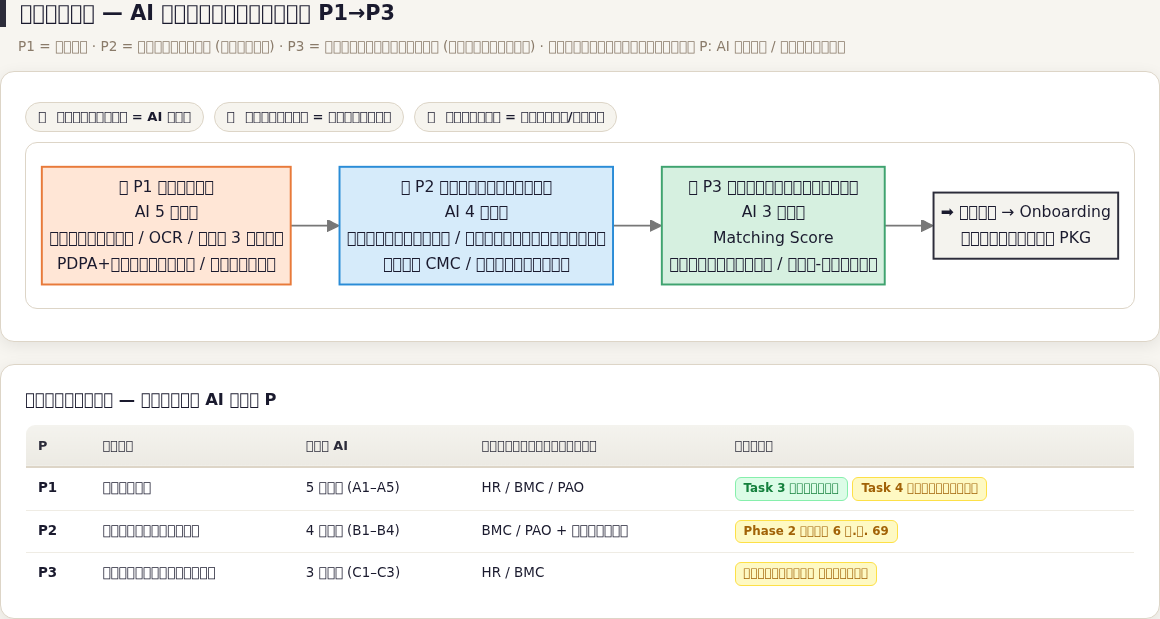
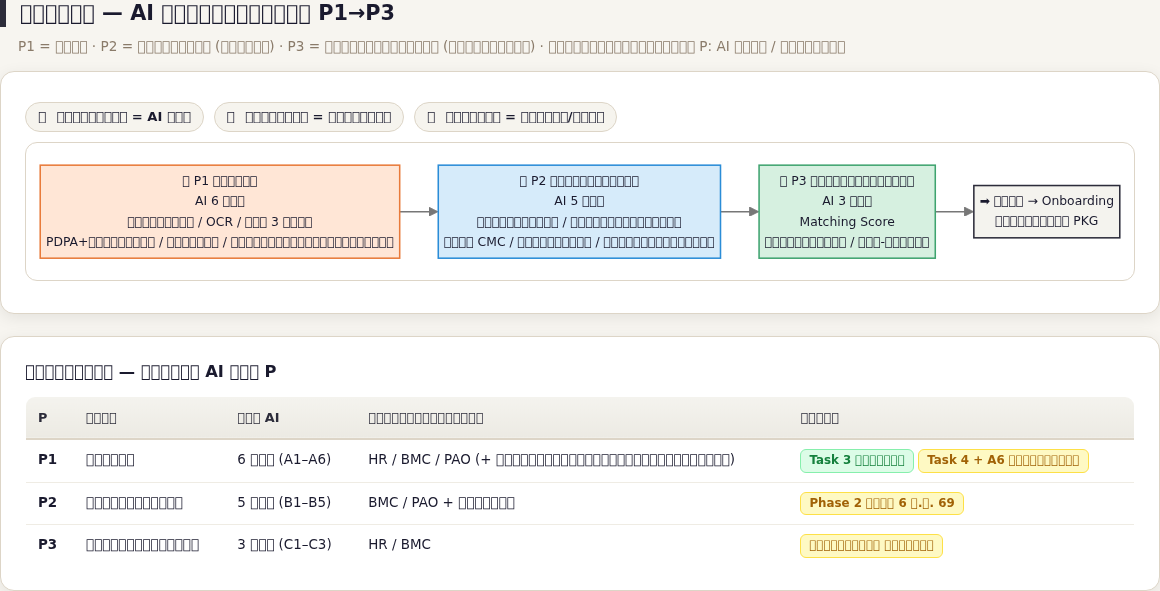
feat(flow): PM-PP7-002 v1.1 — เพิ่ม A6 แนะนำตำแหน่งทางเลือก (P1) + B5 แนะนำบทบาทใหม่ (P2) ตามข้อกำหนดพี่ปกรณ์ 3 ต.ค. 69 + PNG อัปเดต

diff --git a/docs/PM-PP7-AI-POINTS.html b/docs/PM-PP7-AI-POINTS.html
@@ -86,8 +86,8 @@ tbody tr:last-child td{border-bottom:0;}
     </div>
     <div class="mermaid">
 flowchart LR
-    P1["🟠 P1 แสวงหา<br/>AI 5 จุด<br/>ตรวจฟอร์ม / OCR / แปล 3 ภาษา<br/>PDPA+แจ้งเตือน / คัดกรอง"]
-    P2["🔵 P2 หยั่งประเมิน<br/>AI 4 จุด<br/>สร้างคำถาม / วิเคราะห์บันทึก<br/>สรุป CMC / ร่างรายงาน"]
+    P1["🟠 P1 แสวงหา<br/>AI 6 จุด<br/>ตรวจฟอร์ม / OCR / แปล 3 ภาษา<br/>PDPA+แจ้งเตือน / คัดกรอง / แนะนำตำแหน่งทางเลือก"]
+    P2["🔵 P2 หยั่งประเมิน<br/>AI 5 จุด<br/>สร้างคำถาม / วิเคราะห์บันทึก<br/>สรุป CMC / ร่างรายงาน / แนะนำบทบาทใหม่"]
     P3["🟢 P3 จับคู่คนกับงาน<br/>AI 3 จุด<br/>Matching Score<br/>ตรวจประวัติ / ปิด-ส่งต่อ"]
     P1 --> P2 --> P3
     P3 --> OUT["➡ ผ่าน → Onboarding<br/>เป็นสมาชิก PKG"]
@@ -102,8 +102,8 @@ flowchart LR
     <table>
       <thead><tr><th>P</th><th>ชื่อ</th><th>จุด AI</th><th>คนตัดสินสุดท้าย</th><th>สถานะ</th></tr></thead>
       <tbody>
-        <tr><td><b>P1</b></td><td>แสวงหา</td><td>5 จุด (A1–A5)</td><td>HR / BMC / PAO</td><td><span class="tag tag-done">Task 3 ทำแล้ว</span> <span class="tag tag-wait">Task 4 ออกแบบแล้ว</span></td></tr>
-        <tr><td><b>P2</b></td><td>หยั่งประเมิน</td><td>4 จุด (B1–B4)</td><td>BMC / PAO + กรรมการ</td><td><span class="tag tag-wait">Phase 2 หลัง 6 พ.ย. 69</span></td></tr>
+        <tr><td><b>P1</b></td><td>แสวงหา</td><td>6 จุด (A1–A6)</td><td>HR / BMC / PAO (+ ผู้สมัครเลือกตำแหน่งทางเลือก)</td><td><span class="tag tag-done">Task 3 ทำแล้ว</span> <span class="tag tag-wait">Task 4 + A6 ออกแบบแล้ว</span></td></tr>
+        <tr><td><b>P2</b></td><td>หยั่งประเมิน</td><td>5 จุด (B1–B5)</td><td>BMC / PAO + กรรมการ</td><td><span class="tag tag-wait">Phase 2 หลัง 6 พ.ย. 69</span></td></tr>
         <tr><td><b>P3</b></td><td>จับคู่คนกับงาน</td><td>3 จุด (C1–C3)</td><td>HR / BMC</td><td><span class="tag tag-wait">ออกแบบแล้ว รอพัฒนา</span></td></tr>
       </tbody>
     </table>
@@ -112,7 +112,7 @@ flowchart LR
 
 <!-- P1 -->
 <section id="section-p1">
-  <h2><span class="dot" style="background:var(--p1)"></span>🟠 P1 แสวงหา — AI 5 จุด</h2>
+  <h2><span class="dot" style="background:var(--p1)"></span>🟠 P1 แสวงหา — AI 6 จุด</h2>
   <p class="sub">อ้างอิง: PP7_Design_P1 + Task 3 (OCR/แปล/PDPA/แจ้งเตือน) + Task 4 (AI คัดกรอง) · DB: candidates / positions</p>
   <div class="card">
     <h3><span class="dot" style="background:var(--p1)"></span>ผัง P1 — จุด AI (ม่วง) vs คนตัดสิน (ขาว)</h3>
@@ -123,13 +123,15 @@ flowchart LR
     C{{"🤖 A2 OCR ดึงข้อมูล<br/>บัตร / ทะเบียนบ้าน / วุฒิ / CV"}}
     D{{"🤖 A3 แปล 3 ภาษา<br/>TH / LA / KH"}}
     E["📣 ลง DB candidates<br/>+ แจ้ง HR ทาง Telegram"]
-    F{{"🤖 A5 คัดกรอง Task 4<br/>เทียบ JOB_POSTING<br/>คะแนน + เหตุผล + จัดอันดับ"}}
-    G["👥 HR/BMC/PAO ตัดสิน<br/>ผ่าน → P2 / ไม่ผ่าน → ปิด"]
-    A --> B --> C --> D --> E --> F --> G
+    F{{"🤖 A5 คัดกรอง Task 4<br/>เทียบตำแหน่งที่สมัคร<br/>คะแนน + เหตุผล + จัดอันดับ"}}
+    F2{{"🤖 A6 แนะนำตำแหน่งทางเลือก<br/>เทียบตำแหน่งว่างทั้งหมด<br/>Top-N + เหตุผลรายตำแหน่ง"}}
+    G["👥 ผู้สมัครเลือก + HR/BMC/PAO ตัดสิน<br/>ตรงสาย → P2 / เลือกตำแหน่งใหม่ → P2 / ไม่ผ่าน → ปิด"]
+    A --> B --> C --> D --> E --> F --> F2 --> G
     style B fill:#ede9fe,stroke:#6d28d9,stroke-width:2px,color:#1a1a2e
     style C fill:#ede9fe,stroke:#6d28d9,stroke-width:2px,color:#1a1a2e
     style D fill:#ede9fe,stroke:#6d28d9,stroke-width:2px,color:#1a1a2e
     style F fill:#ede9fe,stroke:#6d28d9,stroke-width:2px,color:#1a1a2e
+    style F2 fill:#ede9fe,stroke:#6d28d9,stroke-width:2px,color:#1a1a2e
     style G fill:#ffffff,stroke:#0f766e,stroke-width:2px,color:#1a1a2e
     style E fill:#ffe6d6,stroke:#e87a3a,stroke-width:2px,color:#1a1a2e
     </div>
@@ -143,7 +145,8 @@ flowchart LR
         <tr><td><b>A2</b></td><td><span class="tag tag-ai">AI</span> OCR/Parser ดึงข้อมูลเอกสาร</td><td>บัตรปชช / ทะเบียนบ้าน / วุฒิ / CV → ข้อมูลลงฟอร์มอัตโนมัติ</td><td>ผู้สมัครยืนยันข้อมูล</td><td><span class="tag tag-done">ทำแล้ว (Task 3)</span></td></tr>
         <tr><td><b>A3</b></td><td><span class="tag tag-ai">AI</span> แปล 3 ประเทศ</td><td>ใบสมัคร TH/LA/KH → แปลข้ามภาษาอัตโนมัติ</td><td>HR ตรวจทาน</td><td><span class="tag tag-done">ทำแล้ว (Task 3)</span></td></tr>
         <tr><td><b>A4</b></td><td><span class="tag tag-ai">AI</span> แจ้งเตือน + จัดหมวดหมู่เบื้องต้น</td><td>ใบสมัครใหม่ → Telegram หา HR + แยกตามตำแหน่ง</td><td>HR เปิดดู Dashboard</td><td><span class="tag tag-done">ทำแล้ว (Task 3)</span></td></tr>
-        <tr><td><b>A5</b></td><td><span class="tag tag-ai">AI</span> คัดกรองเบื้องต้น Task 4</td><td>ใบสมัคร+OCR เทียบ JOB_POSTING → คะแนน + เหตุผลรายหัวข้อ + จัดอันดับ</td><td><span class="tag tag-human">คน</span> BMC/PAO ตัดสินร่วม (ผ่าน/รอ/ไม่ผ่าน)</td><td><span class="tag tag-wait">ออกแบบแล้ว +3 วันทำการ</span></td></tr>
+        <tr><td><b>A5</b></td><td><span class="tag tag-ai">AI</span> คัดกรองเบื้องต้น Task 4</td><td>ใบสมัคร+OCR เทียบตำแหน่งที่สมัคร → คะแนน + เหตุผลรายหัวข้อ + จัดอันดับ</td><td><span class="tag tag-human">คน</span> BMC/PAO ตัดสินร่วม (ผ่าน/รอ/ไม่ผ่าน)</td><td><span class="tag tag-wait">ออกแบบแล้ว +3 วันทำการ</span></td></tr>
+        <tr><td><b>A6</b></td><td><span class="tag tag-ai">AI</span> แนะนำตำแหน่งทางเลือก (ใหม่ 3 ต.ค. 69)</td><td>คุณสมบัติผู้สมัคร เทียบตำแหน่งว่างทั้งหมดที่เปิดอยู่ → Top-N ตำแหน่งที่เหมาะกว่า + เหตุผลรายตำแหน่ง → เป็นตัวเลือกให้ผู้สมัครตัดสินใจ</td><td><span class="tag tag-human">คน</span> ผู้สมัครเลือกเอง + HR/BMC/PAO ยืนยัน (ตรงสาย→P2 / เลือกใหม่→P2 / ไม่ผ่าน→ปิด)</td><td><span class="tag tag-wait">ออกแบบแล้ว (สั่งพี่ปกรณ์ 3 ต.ค. 69)</span></td></tr>
       </tbody>
     </table>
   </div>
@@ -151,7 +154,7 @@ flowchart LR
 
 <!-- P2 -->
 <section id="section-p2">
-  <h2><span class="dot" style="background:var(--p2)"></span>🔵 P2 หยั่งประเมิน — AI 4 จุด</h2>
+  <h2><span class="dot" style="background:var(--p2)"></span>🔵 P2 หยั่งประเมิน — AI 5 จุด</h2>
   <p class="sub">“ประเมินก่อนรบ” — วัด CC1–CC7 · อ้างอิง: P2-หยั่งประเมิน-กระบวนการใหม่ (S4) + Task 5.1–5.4 · DB: P2_Assessments / P2_Interviews / P2_AIAnalysis</p>
   <div class="card">
     <h3><span class="dot" style="background:var(--p2)"></span>ผัง P2 — จุด AI (ม่วง) vs คนตัดสิน (ขาว)</h3>
@@ -163,12 +166,14 @@ flowchart TD
     D{{"🤖 B2 วิเคราะห์บันทึก<br/>คะแนนราย CC + หลักฐาน (5.2)"}}
     E{{"🤖 B3 สรุป CMC/ทัศนคติ<br/>+ Cross-check P1 (5.3)"}}
     F{{"🤖 B4 ร่างรายงาน P2<br/>+ Audit log (5.4)"}}
-    G["👥 BMC/PAO ตัดสิน<br/>ผ่าน → P3 / ไม่ผ่าน → ปิด"]}
-    A --> B --> C --> D --> E --> F --> G
+    F2{{"🤖 B5 แนะนำบทบาทใหม่<br/>เทียบตำแหน่งว่างทั้งหมด + คะแนน CC<br/>Top-N + เหตุผล (ใหม่ 3 ต.ค. 69)"}}
+    G["👥 ทีมสัมภาษณ์พิจารณา<br/>ตามคำแนะนำ AI<br/>ตรงสาย → P3 / บทบาทใหม่ → P3 / ไม่ผ่าน → ปิด"]
+    A --> B --> C --> D --> E --> F --> F2 --> G
     style B fill:#ede9fe,stroke:#6d28d9,stroke-width:2px,color:#1a1a2e
     style D fill:#ede9fe,stroke:#6d28d9,stroke-width:2px,color:#1a1a2e
     style E fill:#ede9fe,stroke:#6d28d9,stroke-width:2px,color:#1a1a2e
     style F fill:#ede9fe,stroke:#6d28d9,stroke-width:2px,color:#1a1a2e
+    style F2 fill:#ede9fe,stroke:#6d28d9,stroke-width:2px,color:#1a1a2e
     style G fill:#ffffff,stroke:#0f766e,stroke-width:2px,color:#1a1a2e
     style C fill:#d6ebfa,stroke:#2a8cd7,stroke-width:2px,color:#1a1a2e
     </div>
@@ -182,6 +187,7 @@ flowchart TD
         <tr><td><b>B2</b></td><td><span class="tag tag-ai">AI</span> วิเคราะห์บันทึกสัมภาษณ์ (5.2)</td><td>บันทึกสัมภาษณ์ → คะแนนราย CC + หลักฐานอ้างอิง</td><td>กรรมการยืนยันคะแนน</td><td><span class="tag tag-wait">Phase 2 (1.5 วัน)</span></td></tr>
         <tr><td><b>B3</b></td><td><span class="tag tag-ai">AI</span> สรุป CMC/ทัศนคติ + Cross-check P1 (5.3)</td><td>ผล CMC + ทัศนคติ + ข้อมูล P1 → โปรไฟล์ + ธงขัดแย้ง</td><td>กรรมการพิจารณาธง</td><td><span class="tag tag-wait">Phase 2 (0.5 วัน)</span></td></tr>
         <tr><td><b>B4</b></td><td><span class="tag tag-ai">AI</span> ร่างรายงานสรุป P2 (5.4)</td><td>คะแนนทั้งหมด → รายงานสรุป + Recommendation + Audit</td><td><span class="tag tag-human">คน</span> BMC/PAO ตัดสินสุดท้าย</td><td><span class="tag tag-wait">Phase 2 (1 วัน)</span></td></tr>
+        <tr><td><b>B5</b></td><td><span class="tag tag-ai">AI</span> แนะนำบทบาทใหม่ที่เหมาะกว่า (ใหม่ 3 ต.ค. 69)</td><td>หลังให้คะแนนสัมภาษณ์: AI ประมวลว่าเหมาะกับตำแหน่งที่สัมภาษณ์หรือไม่ + เทียบตำแหน่งว่างทั้งหมด → Top-N บทบาทใหม่ที่เหมาะกว่า + เหตุผล → ทีมสัมภาษณ์พิจารณาจากคำแนะนำ AI</td><td><span class="tag tag-human">คน</span> ทีมสัมภาษณ์/BMC/PAO ตัดสิน (ตรงสาย→P3 / บทบาทใหม่→P3 / ไม่ผ่าน→ปิด)</td><td><span class="tag tag-wait">Phase 2 (สั่งพี่ปกรณ์ 3 ต.ค. 69)</span></td></tr>
       </tbody>
     </table>
   </div>
@@ -239,7 +245,8 @@ flowchart TD
         <tr><td>2</td><td><b>คนตัดสินสุดท้ายเสมอ</b></td><td>P1: HR/BMC/PAO · P2: BMC/PAO + กรรมการ · P3: HR/BMC</td></tr>
         <tr><td>3</td><td><b>Audit 100%</b></td><td>ทุกจุด AI เก็บ log: input → output → คนยืนยัน (P1_AIAnalysis / P2_AIAnalysis / P3_Matching)</td></tr>
         <tr><td>4</td><td><b>ข้อความภายนอกสุภาพ</b></td><td>แจ้งผลไม่ผ่านใช้ภาษาอบอุ่น ไม่ใช้ศัพท์ภายใน (P1/P2/P3/CC) — ตามรูปแบบที่กำหนด 14 ก.ค. 69</td></tr>
-        <tr><td>5</td><td><b>ลำดับพัฒนา</b></td><td>P1 Task 3 เสร็จแล้ว → Task 4 (+3 วัน) → P3 engine → P2 Task 5.1–5.4 Phase 2 หลัง 6 พ.ย. 69</td></tr>
+        <tr><td>5</td><td><b>ลำดับพัฒนา</b></td><td>P1 Task 3 เสร็จแล้ว → Task 4 (+3 วัน, รวม A6 แนะนำตำแหน่งทางเลือก) → P3 engine (C1 รับช่วงต่อจาก A6/B5) → P2 Task 5.1–5.4 + B5 Phase 2 หลัง 6 พ.ย. 69</td></tr>
+        <tr><td>6</td><td><b>แนะนำตำแหน่งทางเลือก 2 ช่วง (ใหม่ 3 ต.ค. 69)</b></td><td><b>P1-A6:</b> หลังคัดกรองคุณสมบัติ เทียบตำแหน่งว่างทั้งหมด → Top-N + เหตุผล → ผู้สมัครเลือกเอง <b>P2-B5:</b> หลังสัมภาษณ์ให้คะแนน เทียบตำแหน่งว่างทั้งหมด + คะแนน CC → Top-N บทบาทใหม่ → ทีมสัมภาษณ์พิจารณา · ทั้ง 2 ช่วงส่งต่อเข้า P3 Matching (C1) เพื่อออก Job Offer</td></tr>
       </tbody>
     </table>
   </div>
